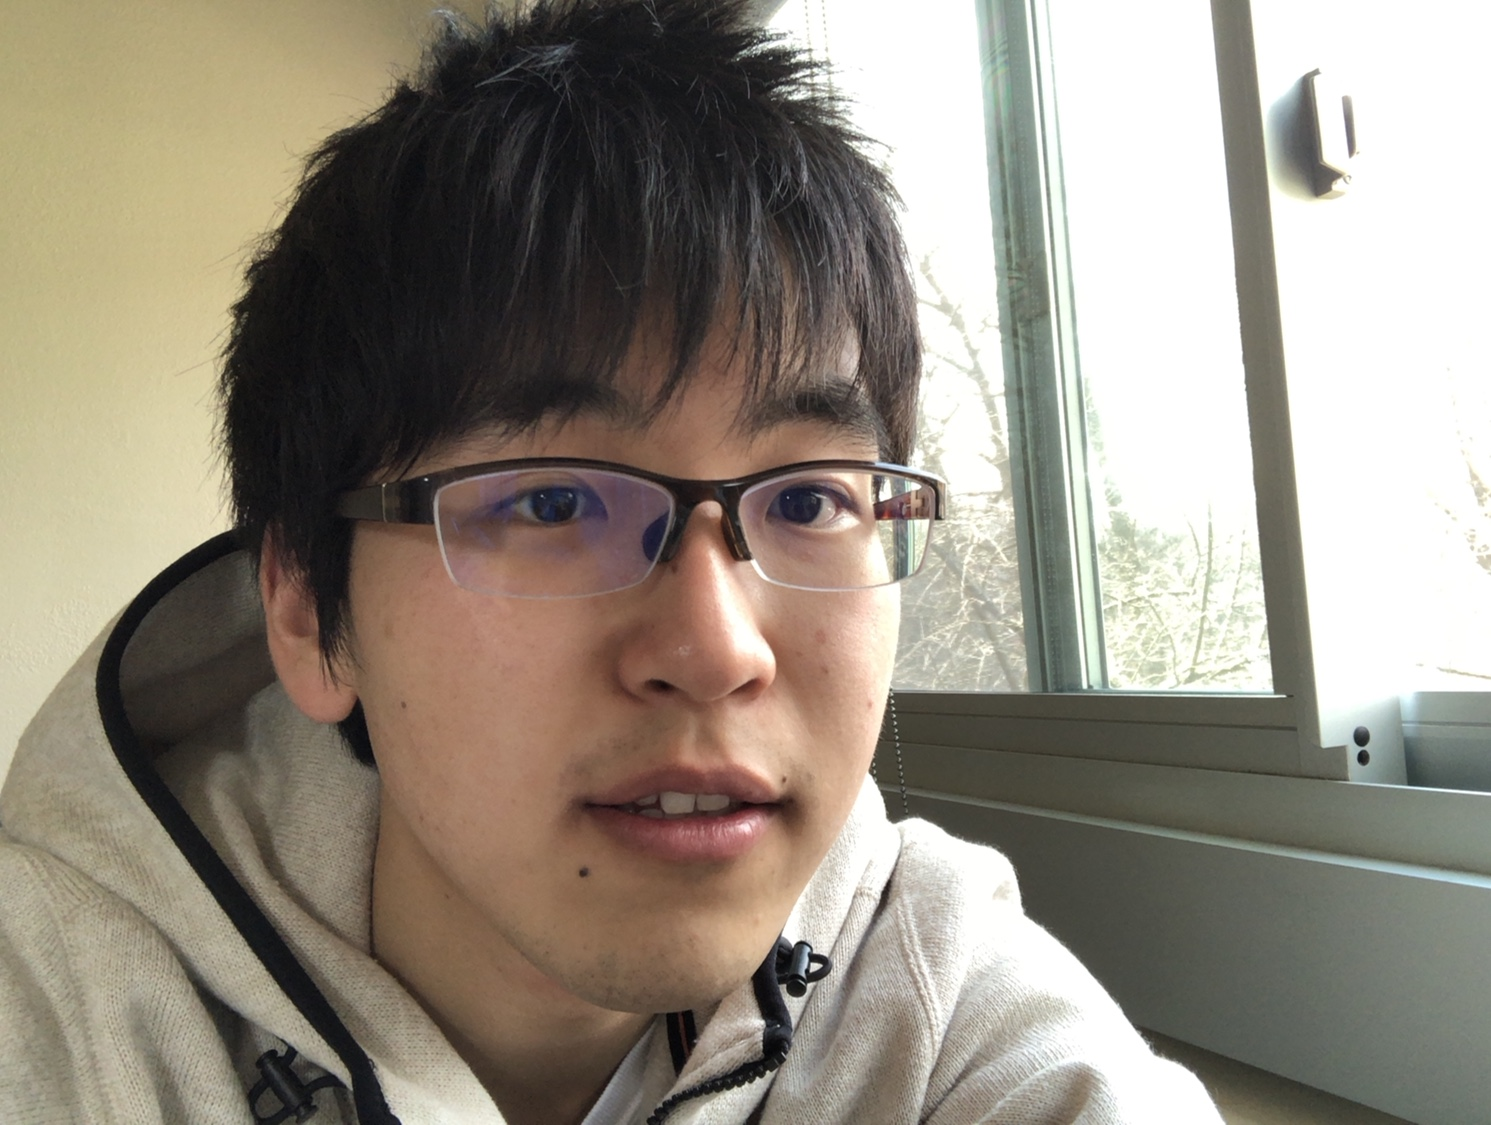
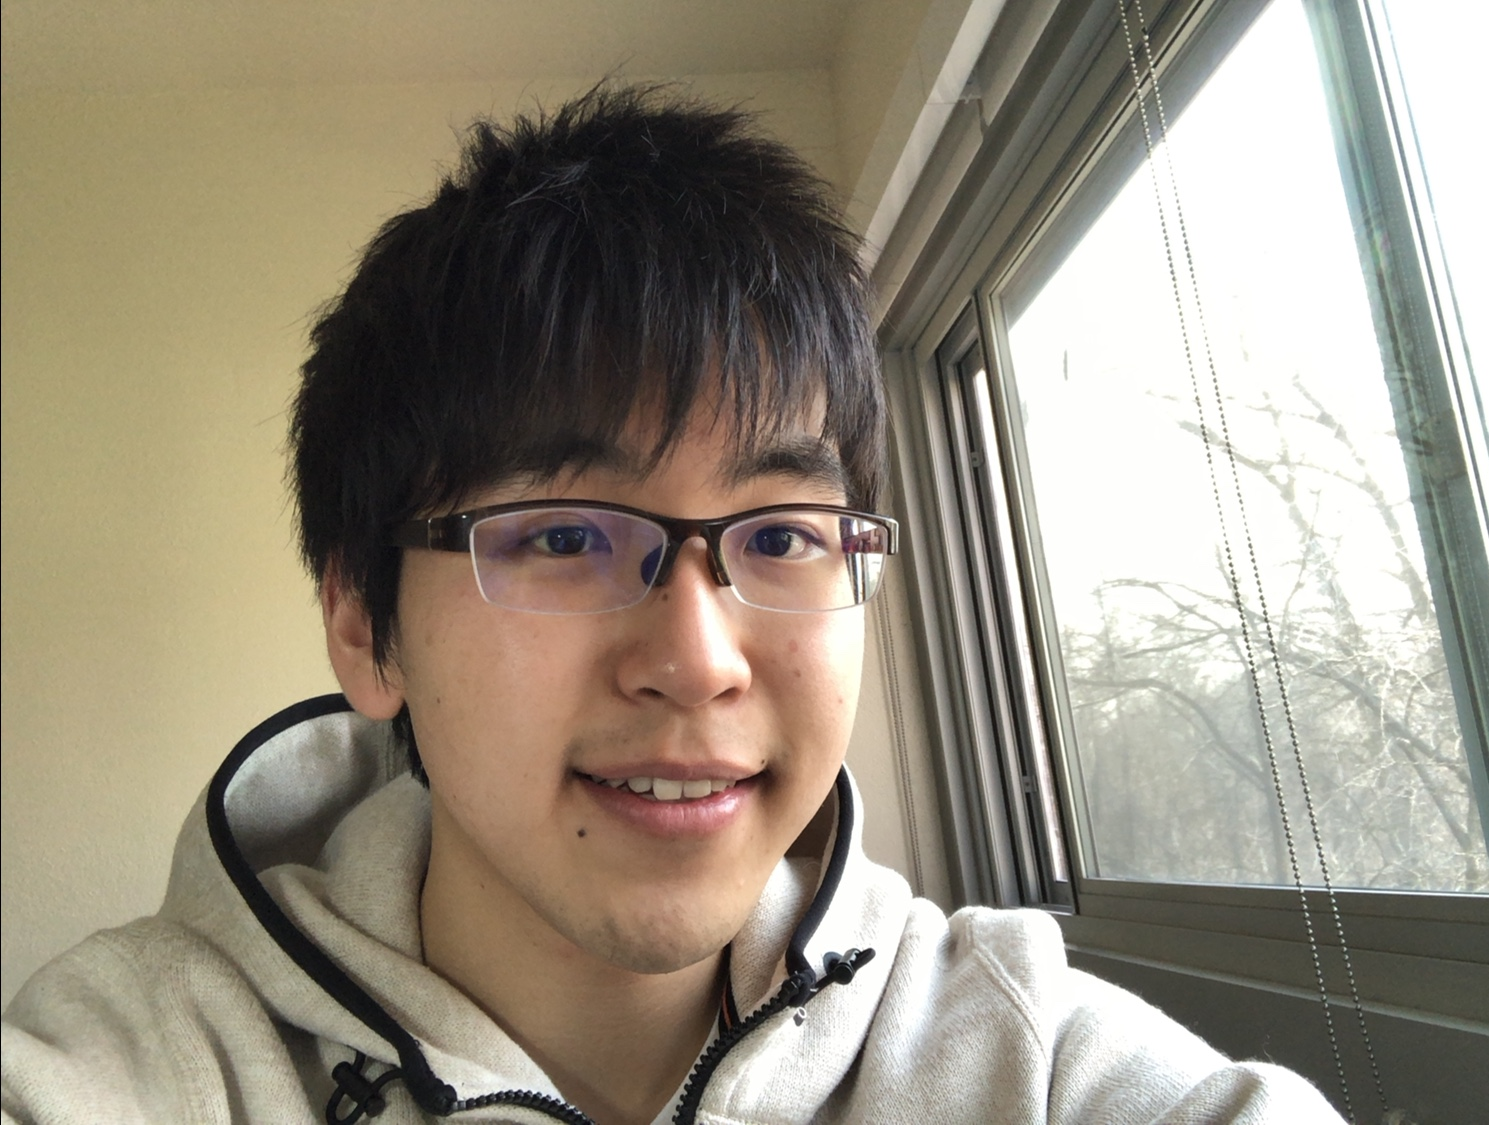
MOD: New picture for Post 1

diff --git a/_posts/2018-04-18-hello_world.md b/_posts/2018-04-18-hello_world.md
@@ -6,7 +6,7 @@ image: assets/images/2018-04-18.jpg
 date: 2018-04-18 14:20:47
 ---
 
-(Wow that's a BIG picture!)
+(Wow that's a BIG picture if you're look at this on a computer! By the way, that's me)
 
 Have you noticed that we (programmers) are extremely polite? Of course we are! Whenever we meet a new programming language or technology for the first time, we start our journey by greeting to the world. And this website is no different: this is my first time deploying a personal website for the whole world to see! So let me open this blog post with a big, loud "Hello World!"
 
